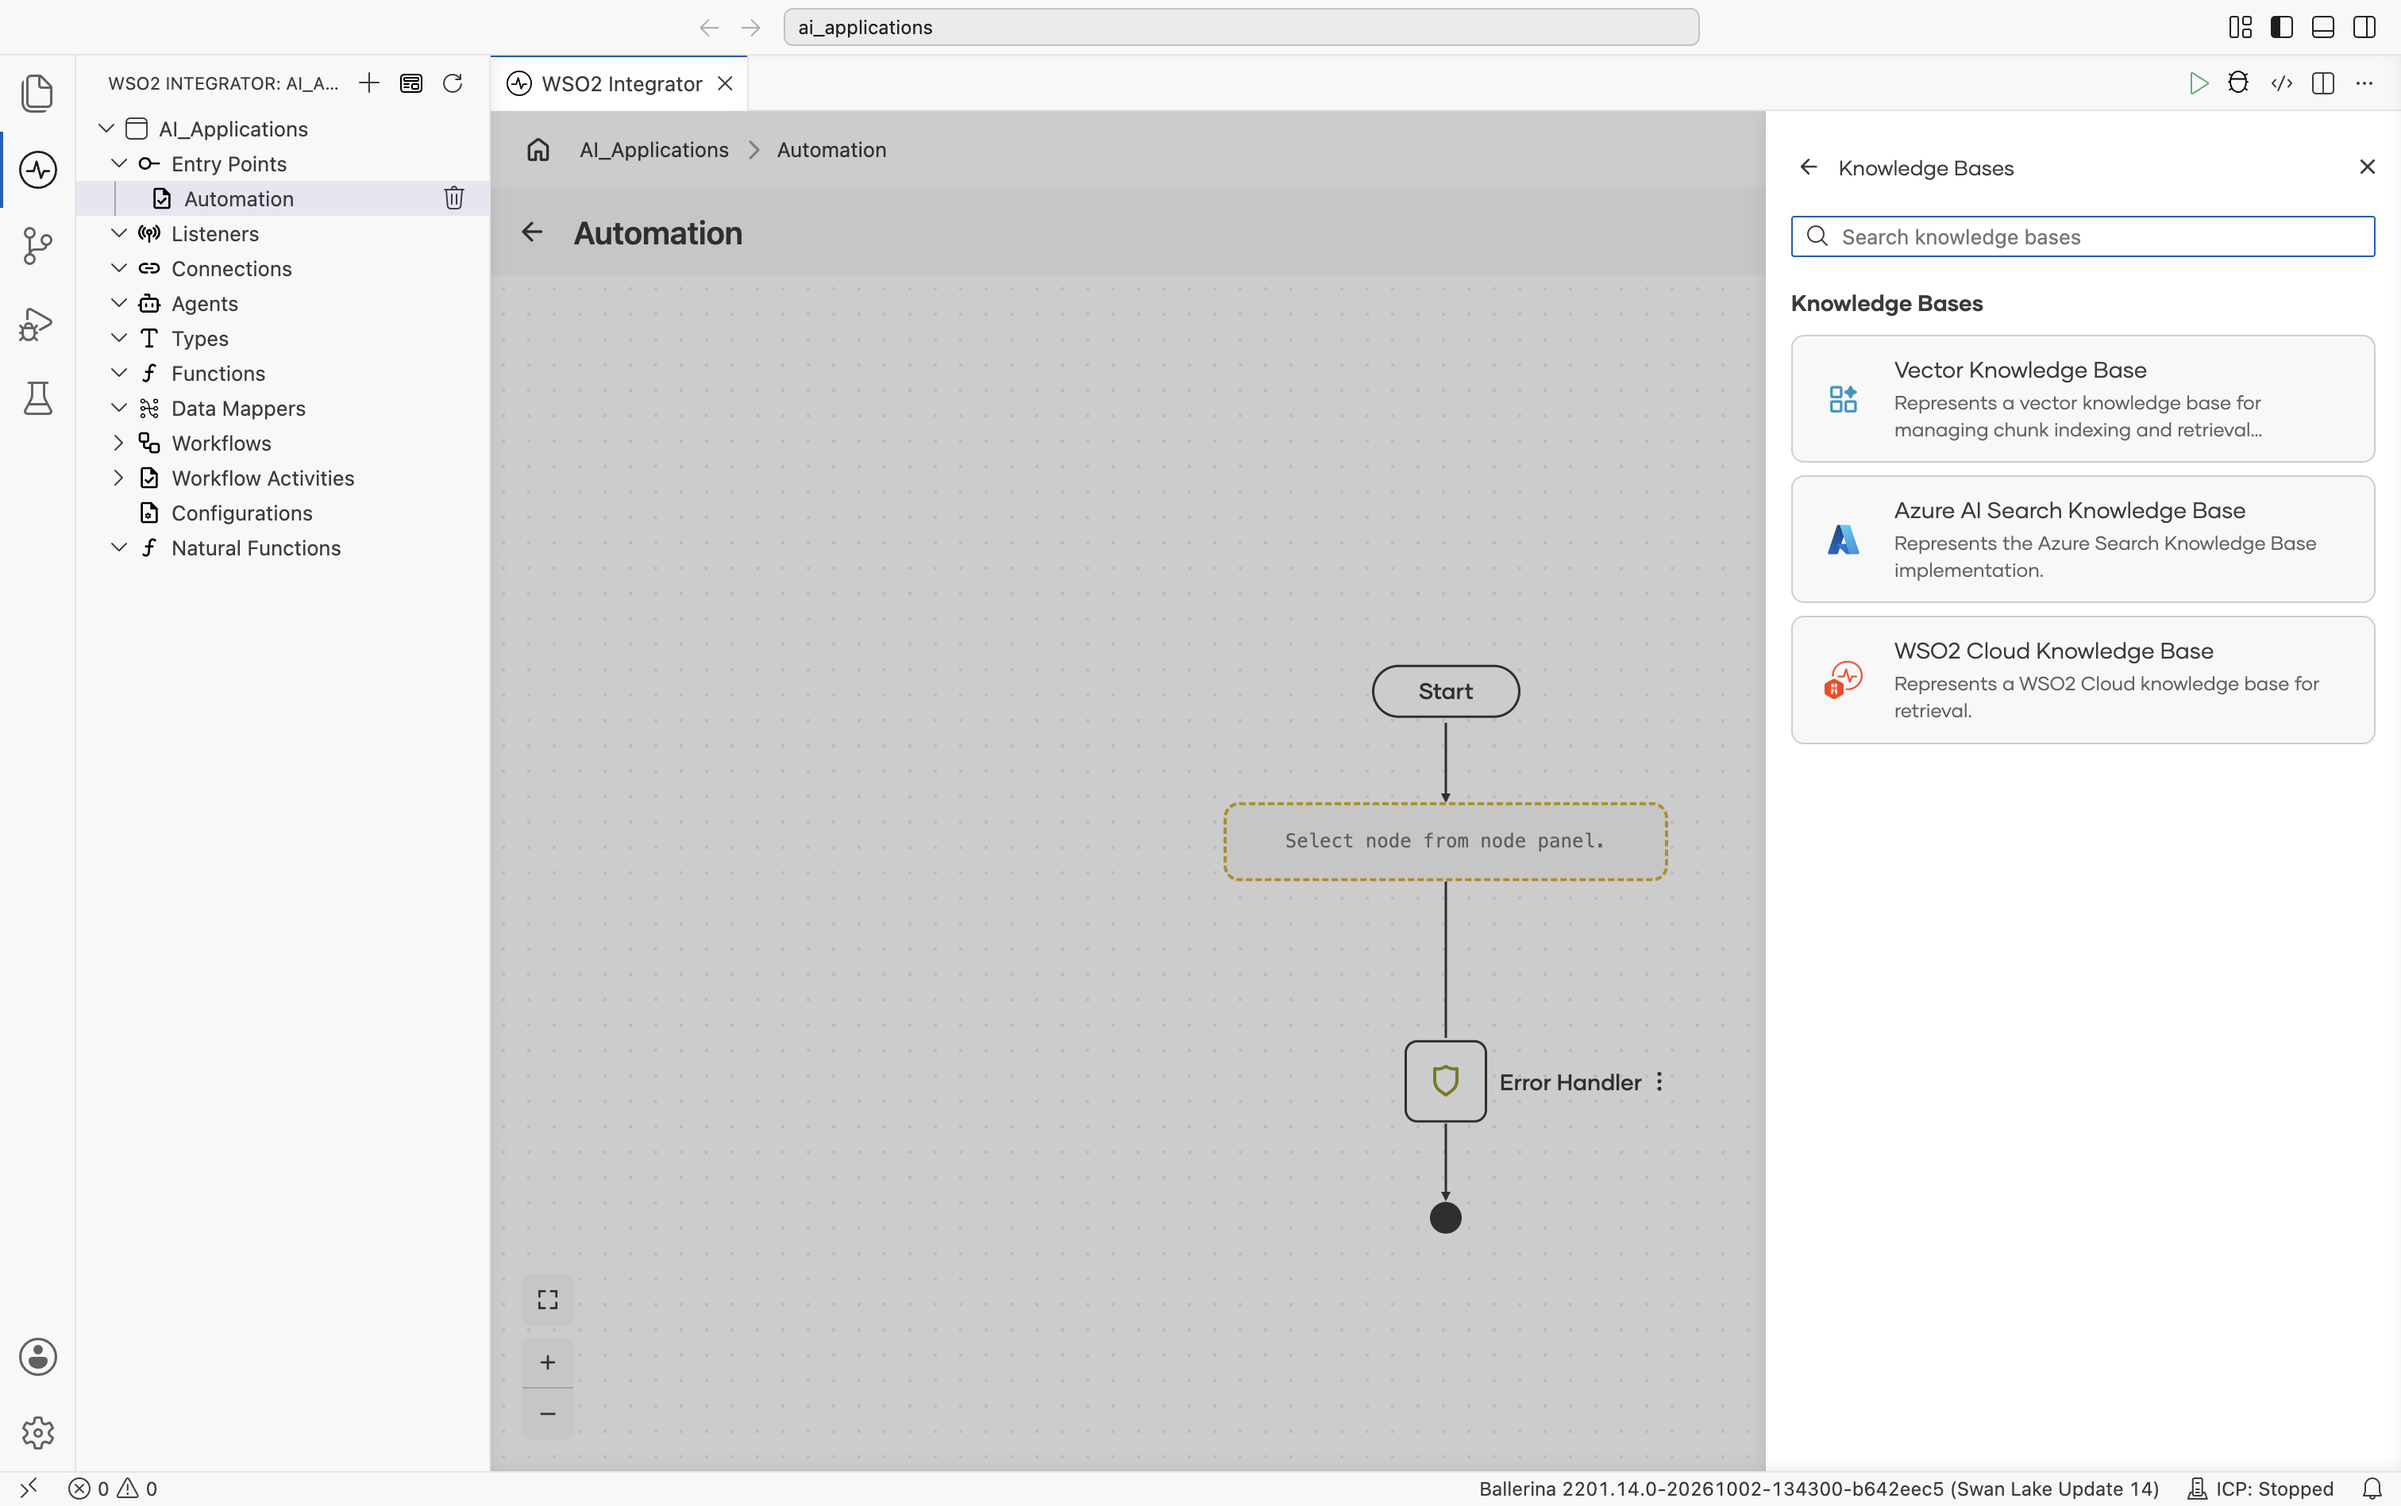
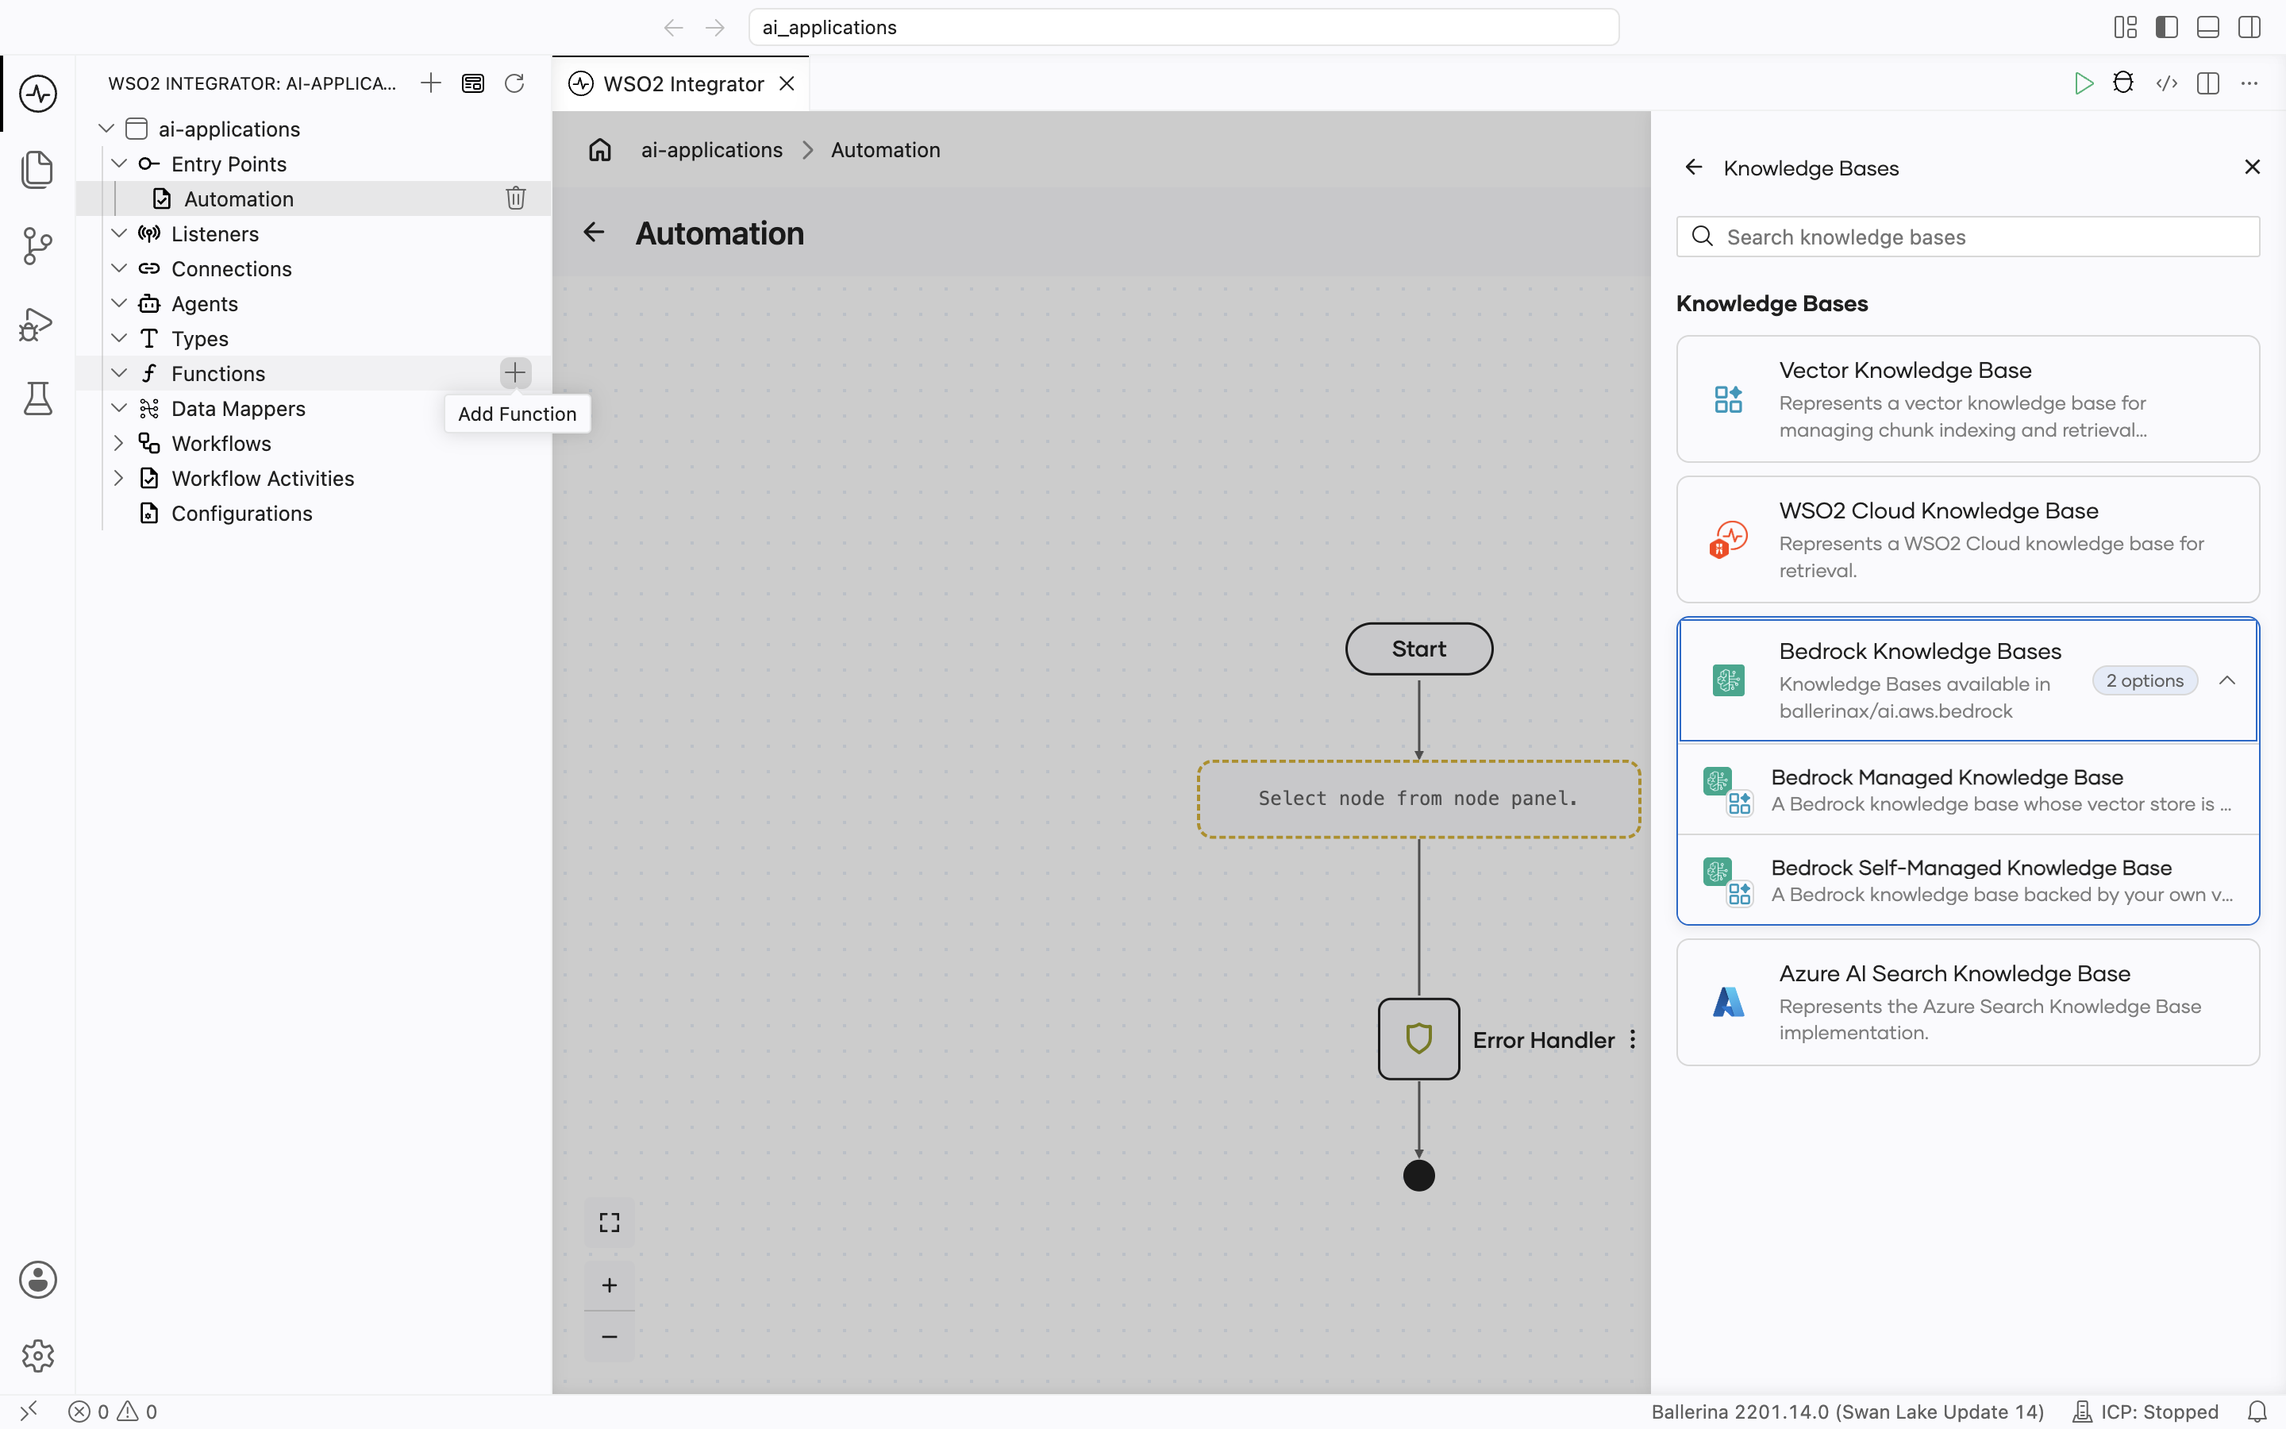
docs(genai): retake the Bedrock embedding and knowledge base screenshots

diff --git a/en/docs/develop-and-test/integration-artifacts/ai-integrations/ai-building-blocks/embedding-providers.md b/en/docs/develop-and-test/integration-artifacts/ai-integrations/ai-building-blocks/embedding-providers.md
@@ -34,7 +34,7 @@ You rarely call these directly. Knowledge Base `ingest` and `retrieve` operation
 - The **Select Embedding Provider** picker opens, listing the available providers with a search bar at the top:
 
 <ThemedImage
-    alt="Select Embedding Provider picker with a search bar and five cards: Default Embedding Provider (WSO2), described as a WSO2 embedding provider implementation that provides embedding capabilities using WSO2's AI service; Azure Embedding Provider, described as an interface for interacting with Azure OpenAI Embedding Models; Google Vertex Embedding Provider, described as a client class that provides an interface for generating vector embeddings; OpenAI Embedding Provider, described as an interface for interacting with OpenAI Embedding Models; and OpenRouter Embedding Provider, described as a client class that provides an interface for generating vector embeddings."
+    alt="Select Embedding Provider picker with a search bar and six cards: Default Embedding Provider (WSO2), the Bedrock Embedding Providers group (2 options, available in ballerinax/ai.aws.bedrock), Azure Embedding Provider, Google Vertex Embedding Provider, OpenAI Embedding Provider, and OpenRouter Embedding Provider, each with a one-line description."
     sources={{
         light: useBaseUrl('/img/genai/develop/components-v5.1/embedding-providers/01-select-embedding-provider-v5.1.png'),
         dark: useBaseUrl('/img/genai/develop/components-v5.1/embedding-providers/01-select-embedding-provider-v5.1.png'),
@@ -81,7 +81,7 @@ Official website: [aws.amazon.com/bedrock](https://aws.amazon.com/bedrock/).
 ### Create form
 
 <ThemedImage
-    alt="Create Embedding Provider form for the Bedrock Titan Embedding Provider, headed 'Amazon Titan text embeddings on AWS Bedrock.', showing three required fields: Model (select/expression toggle), Authentication (record/expression toggle, with hint 'AWS credentials or a Bedrock API key; auth:DEFAULT_CREDENTIALS uses the default chain'), and Region (select/expression toggle), then the optional Endpoint Configuration. Below: Advanced Configurations Expand link, Embedding Provider Name bedrockTitanembeddingprovider, and Result Type bedrock:TitanEmbeddingProvider."
+    alt="Create Embedding Provider form for the Bedrock Titan Embedding Provider, headed 'Amazon Titan text embeddings on AWS Bedrock.', showing three required fields: Model (select/expression toggle), Authentication (record/expression toggle, with hint 'AWS credentials or a Bedrock API key; auth:DEFAULT_CREDENTIALS uses the default chain'), and Region (select/expression toggle), then the optional Endpoint Configuration. Below: Advanced Configurations Expand link and Embedding Provider Name bedrockTitanembeddingprovider."
     sources={{
         light: useBaseUrl('/img/genai/develop/components-v5.1/embedding-providers/11-aws-bedrock-titan-basic-v5.1.png'),
         dark: useBaseUrl('/img/genai/develop/components-v5.1/embedding-providers/11-aws-bedrock-titan-basic-v5.1.png'),
@@ -104,7 +104,7 @@ Both AWS Bedrock embedding providers have the same create form fields.
 ### Advanced configurations
 
 <ThemedImage
-    alt="Bedrock Cohere Create Embedding Provider form with Advanced Configurations expanded showing Input Type (select/expression toggle, no selection, with hint 'Input type for every call. Unset: queries for embed, documents for batchEmbed.'), Truncate, Dimensions, Additional Model Request Fields, Retry Config, and HTTP Config, followed by Embedding Provider Name bedrockCohereembeddingprovider."
+    alt="Bedrock Cohere Create Embedding Provider form scrolled to Endpoint Configuration, then Advanced Configurations expanded showing Input Type (No Selection, with hint 'Input type for every call. Unset: queries for embed, documents for batchEmbed.'), Truncate, Dimensions (hint '256, 512, 1024 or 1536 (Embed v4 only). Defaults to 1536.'), and Additional Model Request Fields."
     sources={{
         light: useBaseUrl('/img/genai/develop/components-v5.1/embedding-providers/12-aws-bedrock-cohere-advanced-v5.1.png'),
         dark: useBaseUrl('/img/genai/develop/components-v5.1/embedding-providers/12-aws-bedrock-cohere-advanced-v5.1.png'),

diff --git a/en/docs/develop-and-test/integration-artifacts/ai-integrations/ai-building-blocks/knowledge-bases.md b/en/docs/develop-and-test/integration-artifacts/ai-integrations/ai-building-blocks/knowledge-bases.md
@@ -45,7 +45,7 @@ Two places, both equivalent:
 Either one opens the **Select Knowledge Base** picker, listing all supported types with a search bar at the top:
 
 <ThemedImage
-    alt="Select Knowledge Base picker with a search bar and three cards: Vector Knowledge Base described as managing chunk indexing and retrieval, Azure AI Search Knowledge Base described as the Azure Search Knowledge Base implementation, and WSO2 Cloud Knowledge Base described as a WSO2 Cloud knowledge base for retrieval."
+    alt="Select Knowledge Base picker with a search bar and four cards: Vector Knowledge Base, WSO2 Cloud Knowledge Base, the Bedrock Knowledge Bases group (2 options, available in ballerinax/ai.aws.bedrock) expanded to show Bedrock Managed Knowledge Base and Bedrock Self-Managed Knowledge Base, and Azure AI Search Knowledge Base."
     sources={{
         light: useBaseUrl('/img/genai/develop/components-v5.1/knowledge-bases/02-select-list-v5.1.png'),
         dark: useBaseUrl('/img/genai/develop/components-v5.1/knowledge-bases/02-select-list-v5.1.png'),
@@ -114,7 +114,7 @@ Find or create is meant for a single instance, a local run, or a first-time setu
 ### Create form
 
 <ThemedImage
-    alt="Create form for the Bedrock Managed Knowledge Base, titled 'ai.aws.bedrock : Knowledge Base', showing Knowledge Base, Authentication, and Region (required), then Data Source ID (default ()), Chunker (AUTO, with + Create New Chunker), Reranking Model (No Selection), and the start of Endpoint Configuration."
+    alt="Create form for the Bedrock Managed Knowledge Base, titled 'ai.aws.bedrock : Knowledge Base', showing Knowledge Base (required, hint 'An existing knowledge base ID, or a definition to find or create by name'), Authentication and Region (required), then Data Source ID (default ()), Chunker (default ai:AUTO, with + Create New Chunker), and Reranking Model (hint: Bedrock's managed reranking when unset; RERANKING_NONE turns it off)."
     sources={{
         light: useBaseUrl('/img/genai/develop/components-v5.1/knowledge-bases/13-aws-bedrock-basic-v5.1.png'),
         dark: useBaseUrl('/img/genai/develop/components-v5.1/knowledge-bases/13-aws-bedrock-basic-v5.1.png'),
@@ -144,7 +144,7 @@ The identity needs `bedrock:Retrieve` for **Retrieve**, and the [direct ingestio
 ### Advanced configurations
 
 <ThemedImage
-    alt="Create form for the Bedrock Self-Managed Knowledge Base scrolled to Reranking (default ()), Endpoint Configuration, and Ingest Timeout, then Advanced Configurations expanded showing Number Of Results, Override Search Type (No Selection), HTTP Config, and Retry Config."
+    alt="Create form for the Bedrock Self-Managed Knowledge Base scrolled to Endpoint Configuration and Ingest Timeout (default 300), then Advanced Configurations expanded showing Number Of Results (hint 'Upper limit on results per retrieval (1-100)'), Override Search Type (No Selection), HTTP Config, and Retry Config."
     sources={{
         light: useBaseUrl('/img/genai/develop/components-v5.1/knowledge-bases/14-aws-bedrock-self-managed-advanced-v5.1.png'),
         dark: useBaseUrl('/img/genai/develop/components-v5.1/knowledge-bases/14-aws-bedrock-self-managed-advanced-v5.1.png'),
